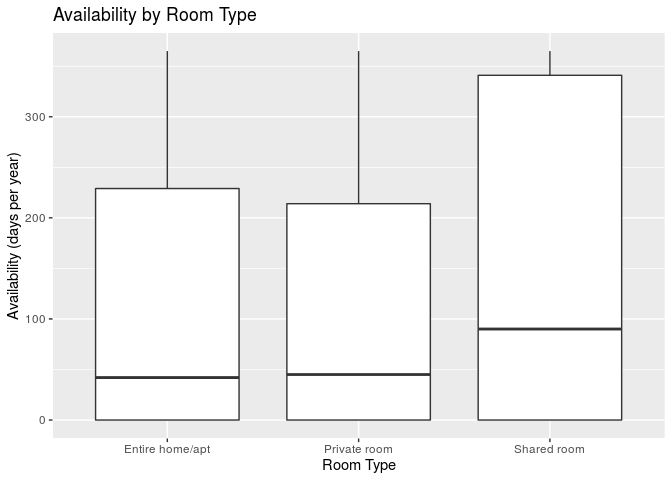
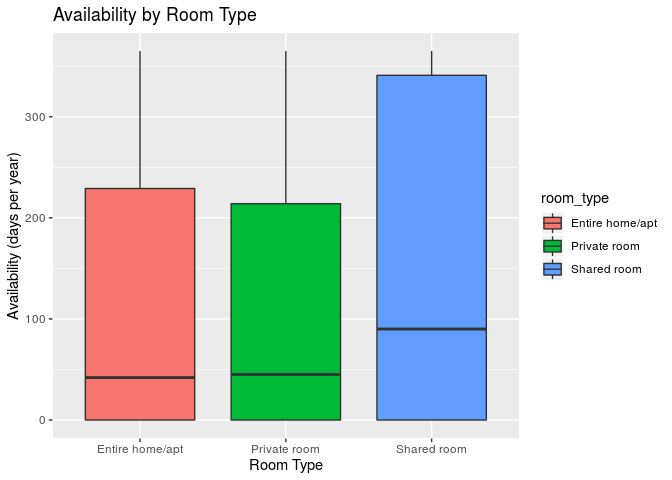
Section 2 - finishing exploratory data

diff --git a/proposal/proposal.md b/proposal/proposal.md
@@ -79,8 +79,10 @@ abnb <- read_csv("AB_NYC_2019.csv")
 
 LOCATION AND PRICE:
 
-Univariate Borough Count (Visualization): Creating a histogram that
-displays number of listings by neighborhood borough in New York City.
+Univariate Borough Count (Visualization):
+
+Creating a histogram that displays number of listings by neighborhood
+borough in New York City.
 
 ``` r
 ggplot(data = abnb, mapping = aes(x = neighbourhood_group)) +
@@ -92,15 +94,16 @@ ggplot(data = abnb, mapping = aes(x = neighbourhood_group)) +
 
 ![](proposal_files/figure-gfm/visualization-univariate-1.png)<!-- -->
 
-According to this histogram, Manhattan and Brooklyn dominate the number
-of listings on Airbnb in New York City. More specifically, there is
-roughly 20,000 listings in Brooklyn and slightly more than 20,000
-listings in Manhattan. The Queens borough follows after with roughly
-5,000 listings, followed by Bronx and Staten Island with fewer than
-1,100 listings each.
+Manhattan and Brooklyn dominate the number of listings on Airbnb in New
+York City. More specifically, there is roughly 20,000 listings in
+Brooklyn and slightly more than 20,000 listings in Manhattan. The Queens
+borough follows after with roughly 5,000 listings, followed by Bronx and
+Staten Island with fewer than 1,100 listings each.
 
-Univariate Borough Count (Summary) Creating summary statistics that will
-count the number of listings in each neighborhood group.
+Univariate Borough Count (Summary):
+
+Creating summary statistics that will count the number of listings in
+each neighborhood group.
 
 ``` r
 abnb %>%
@@ -117,9 +120,9 @@ abnb %>%
     ## 4 Bronx                1091
     ## 5 Staten Island         373
 
-According to the table, Manhattan has the most listings at 21,661
-followed by Brooklyn at 20,104 listings, followed by Queens at 5,666,
-Bronx at 1,091, and Staten Island last at only 373 listings.
+Manhattan has the most listings at 21,661 followed by Brooklyn at 20,104
+listings, followed by Queens at 5,666, Bronx at 1,091, and Staten Island
+last at only 373 listings.
 
 Creating a facet histogram that will display the price of listings by
 borough.
@@ -128,32 +131,17 @@ borough.
 abnb %>%
   ggplot(mapping = aes(x = price)) +
   geom_histogram(bins=35) +
-  facet_wrap(.~neighbourhood_group)
+  facet_wrap(.~neighbourhood_group) +
+  labs(title = "Price of Listings by Borough", x = "Price", y = "Count")
 ```
 
 ![](proposal_files/figure-gfm/price-borough-1.png)<!-- -->
 
-``` r
-  labs(title = "Price of Listings by Borough", x = "Borough", y = "Price")
-```
-
-    ## $x
-    ## [1] "Borough"
-    ## 
-    ## $y
-    ## [1] "Price"
-    ## 
-    ## $title
-    ## [1] "Price of Listings by Borough"
-    ## 
-    ## attr(,"class")
-    ## [1] "labels"
-
-The graphs display that the prices for listings are very skewed to the
-right. In other words, there are many outliers that fall out of the IQR
-for each neighborhood group. Most listings fall in the 50 to 150 price
-range. However, there are outliers that are a lot higher than this price
-range.
+The prices for listings are very skewed to the right. In other words,
+there are many outliers that fall out of the IQR for each neighborhood
+group. Most listings fall in the 50 to 150 price range, with the
+outliers at much higher prices. The graph also shows us the number of
+listings at a given price within that borough.
 
 Creating summary statistics that displays the median and IQR price of
 each neighborhood group.
@@ -178,12 +166,11 @@ abnb %>%
     ## 4 Staten Island              75        60
     ## 5 Bronx                      65        54
 
-According to the table, Manhattan has the highest median price at 150
-followed by Brooklyn at 90, Queens and Staten Island at 75, and Bronx
-last at 65.
+Manhattan has the highest median price at 150 followed by Brooklyn at
+90, Queens and Staten Island at 75, and Bronx last at 65.
 
-Creating summary statistics that finds the median price based upon
-neighborhood in descending order.
+Creating summary statistics that finds the neighbourhoods with the
+highest median prices and gives their corresponding borough:
 
 ``` r
 abnb %>%
@@ -203,23 +190,30 @@ abnb %>%
     ## 4 Queens              Neponsit                274
     ## 5 Manhattan           NoHo                    250
 
-According to the table, Fort Wadsworth in Staten Island has the highest
-median price at 800 followed by Woodrow at 700, Tribeca at 295, Neponsit
-at 274, and NoHo at 250.
+Fort Wadsworth in Staten Island has the highest median price at 800
+followed by Woodrow at 700, Tribeca at 295, Neponsit at 274, and NoHo at
+250.
+
+Creating a scatterplot that finds the prices at different latitude and
+longitude co-ordinates:
 
 ``` r
 abnb %>%
   ggplot(mapping = aes (x = longitude, y = latitude, color = price)) +
-  geom_point(alpha = 0.6)
+  geom_point(alpha = 0.3) +
+  labs(title = "Prices at Latitude and Longitude Co-ordinates", x = "Longitude", y = "Latitude")
 ```
 
 ![](proposal_files/figure-gfm/price-at-longtitude-1.png)<!-- -->
 
-The graph displays that most listings take place in the (-74, -73.7)
-longtitude region and (40.55, 40.9) latitude region. Prices are
-generally in the 50 to 150 range.
+Most listings take place in the (-74, -73.7) longtitude region and
+(40.55, 40.9) latitude region. Prices are generally in the 50 to 150
+range.
 
 LISTING DETAILS AND AVAILABILITY
+
+Creating a histogram that describes the number of days a listing is
+available in a year:
 
 ``` r
 abnb %>%
@@ -238,9 +232,12 @@ The graph is skewed to the right with most occurrences happening in the
 more than 25,000 listings occurr in the 0 to 100 availability (days per
 year).
 
+Creating a boxplot to show which room type (shared, private or
+house/apartment) is available for the most amount of days per year:
+
 ``` r
 abnb %>%
-  ggplot(mapping = aes(x =  room_type, y = availability_365)) +
+  ggplot(mapping = aes(x =  room_type, y = availability_365, fill = room_type)) +
   geom_boxplot() + 
   labs(
     title = "Availability by Room Type",
@@ -251,9 +248,13 @@ abnb %>%
 ![](proposal_files/figure-gfm/room_type-availability_365-1.png)<!-- -->
 
 The graph above are boxplots that show that the availability based on
-room type is also skewed to the right. The median availability days
-among entire home and private rooms are slightly less than 50 days while
-shared rooms have a rough median availability of 90 days.
+room type is also skewed to the right. The median available number of
+days days among entire home and private rooms are slightly less than 50
+days while shared rooms have a rough median availability of 90 days.
+Shared rooms are available for the most number of days in the year.
+
+Creating a table to describe summary statistics for availibility by room
+type:
 
 ``` r
 abnb %>%
@@ -273,8 +274,13 @@ abnb %>%
     ## 2 Private room                      45                  214
     ## 3 Entire home/apt                   42                  229
 
-The table shows that the median availability are 90 days for shared
-room, 45 days for private room, and 42 days for entire home/apartment.
+The median availability are 90 days for shared room, 45 days for private
+room, and 42 days for entire home/apartment. The range for shared room
+type is the highest with 341 days.
+
+Creating a new variable mutate to use availibility as a index of
+popularity of the listing based on “busy”, “not busy” and “NA”.
+Visualizing this data using a segmented barplot:
 
 ``` r
 abnb %>%
@@ -284,17 +290,22 @@ abnb %>%
     availability_365 > 300    ~ "Not Busy",)
     ) %>%
 ggplot(mapping = aes(x = room_type, fill = avail)) +
-  geom_bar(position = "fill")
+  geom_bar(position = "fill") +
+  labs(title = "Popularity of Listings by Room Type", 
+       x = "Room Type", y = "Proportion", 
+       fill = "Busyness of Room Type") 
 ```
 
 ![](proposal_files/figure-gfm/prop-of-avail-1.png)<!-- -->
 
 The stacked bar graph above shows the proprotion of listings based on
-room\_type that are either not busy, very busy, or have no data (NAs).
+room type that are either not busy, very busy, or have no data (NAs).
 According to the graph, all entire home, private rooms, shared room
 listing types are generally mostly very busy at roughly 60% while only
-roughly 20% across the charts are roughly not busy. Shared rooms are
-generally less busy than private rooms and entire home/apt listings.
+roughly 20% across the charts are not busy. Shared rooms are generally
+less busy than private rooms and entire home/apt listings.
+
+Creating a \_\_\_\_:
 
 ``` r
 abnb %>%
@@ -305,7 +316,8 @@ abnb %>%
     ) %>%
 ggplot(mapping = aes(x = calculated_host_listings_count, y = reviews_per_month)) +
   geom_point() +
-  facet_grid(room_type ~ avail)
+  facet_grid(room_type ~ avail) +
+  labs(title = "", x = "", y = "")
 ```
 
     ## Warning: Removed 10052 rows containing missing values (geom_point).
